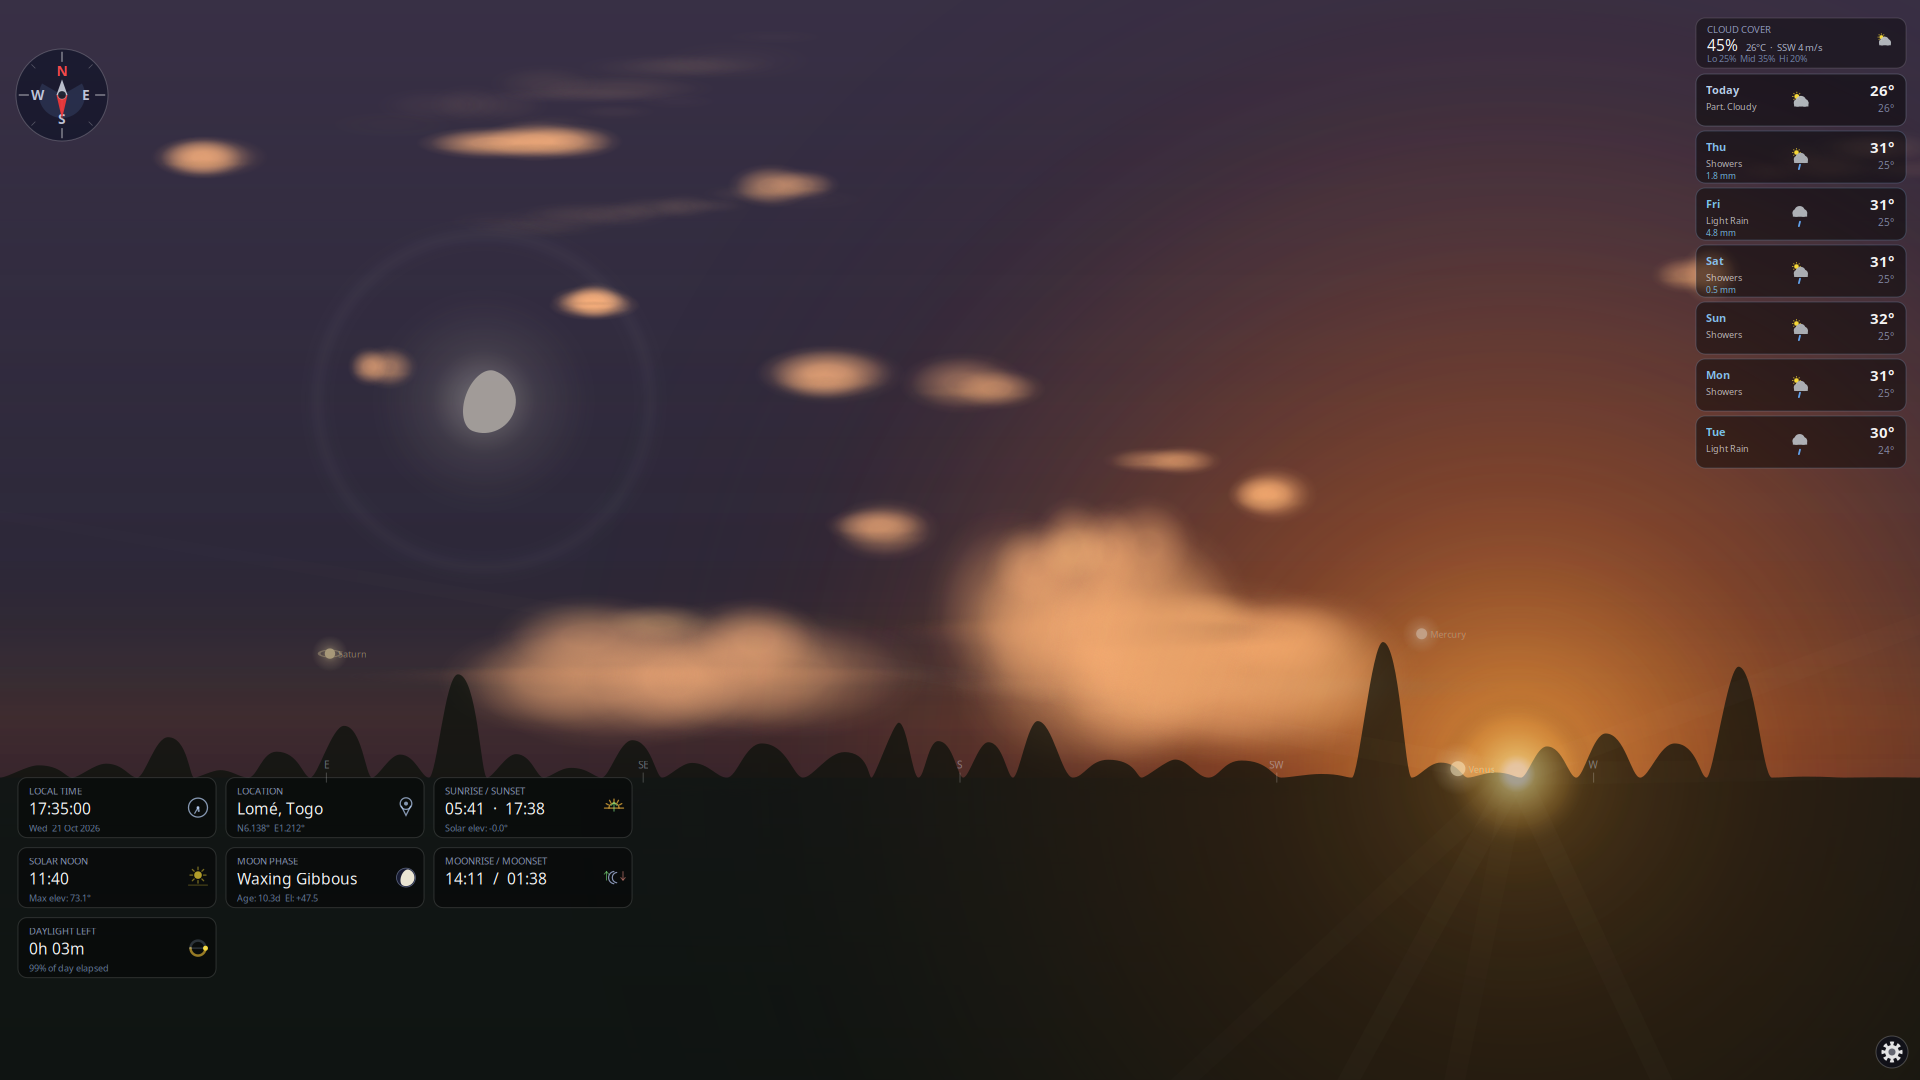
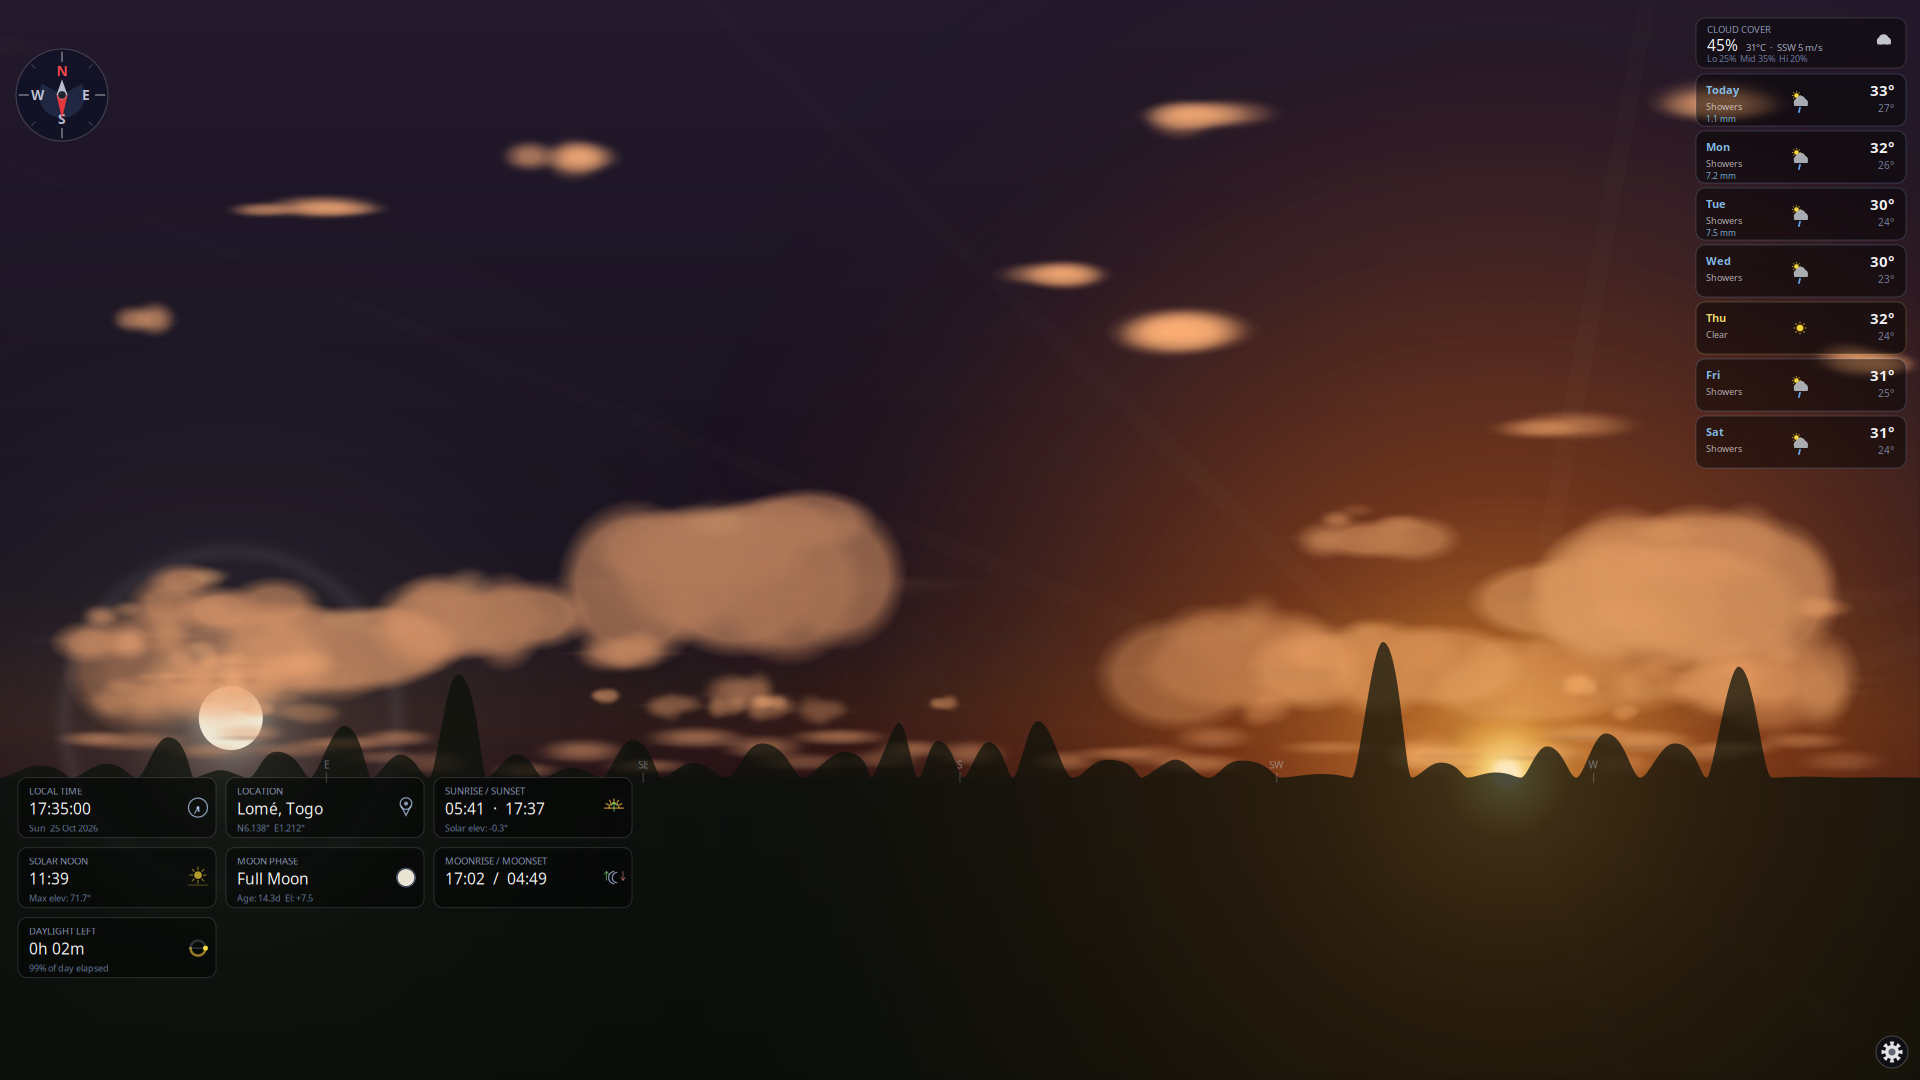
release 1.2.0: version bump, changelog, metainfo, new day/sunset screenshots

diff --git a/caelum/__init__.py b/caelum/__init__.py
@@ -1,3 +1,3 @@
 """Caelum — live sky overlay: sun, moon, planets, stars and weather for your location."""
 
-__version__ = '1.1.1'
+__version__ = '1.2.0'

diff --git a/JOURNAL.md b/JOURNAL.md
@@ -859,3 +859,13 @@ thick low cloud: 80% cirrus alone left the sun at ~33% and greyed the sky with t
   forming deck; overcast/altostratus/sunset/night unchanged.
 - Time-lapse 60 %, 3-min steps: sun clear in 4 of 9 frames; night 60 %: clouds cross the moon.
 - 21 tests pass; pyflakes clean.
+
+### Release 1.2.0 (2026-10-25)
+- Version bump: `caelum/__init__.py` 1.2.0, `debian/changelog` 1.2.0-1, metainfo `<release>` with
+  notes; screenshot URLs pinned to the `v1.2.0` tag.
+- **Store screenshots re-rendered**: the 1.1.1 `day.png` (veiled sun at 55 %, Venus/Mercury in
+  daylight) and `sunset.png` showed exactly what this release fixes. Re-rendered off-screen
+  (scratch harness: `SkyTracker` with window/network stubbed, fixed UTC) with the same composition
+  (all cards on, facing S, Lomé, cover 55 % Lo35/Mid40/Hi25 at 10:00 and 45 % Lo25/Mid35/Hi20 at
+  17:35) and the live MET/Open-Meteo forecast, dated 2026-10-25 so the forecast weekdays match.
+  `night.png` (0 % cover) and `settings.png` are unaffected and kept. `dusk.png` stays unused.
